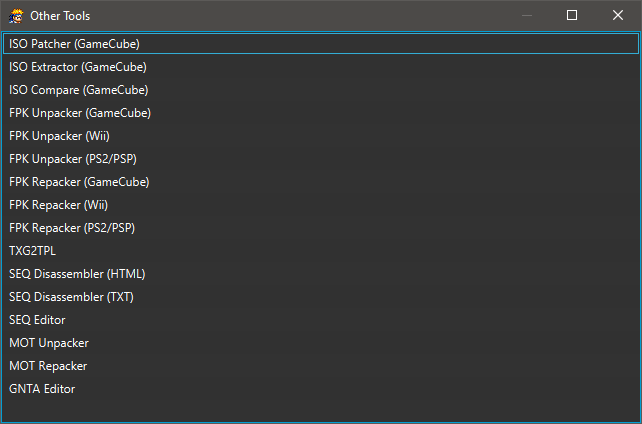
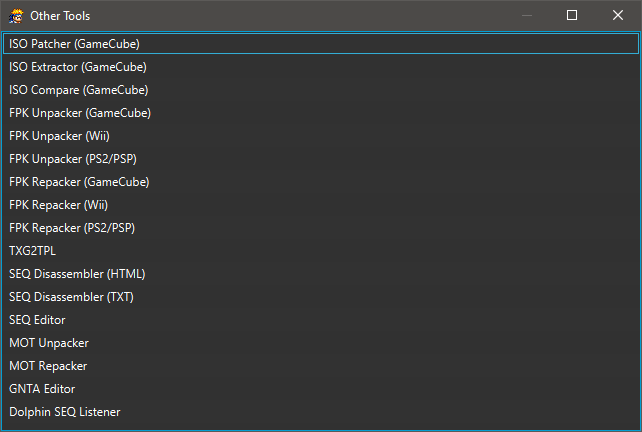
Add SEQ listener to workspace menu

Changed region(s): [[0.0, 0.3066, 0.2492, 0.9811], [0.0, 0.0307, 0.9969, 0.2759]]

diff --git a/src/main/java/com/github/nicholasmoser/tools/DolphinSeqListenerTool.java b/src/main/java/com/github/nicholasmoser/tools/DolphinSeqListenerTool.java
@@ -3,13 +3,33 @@ package com.github.nicholasmoser.tools;
 import com.github.nicholasmoser.gnt4.seq.DolphinSeqListener;
 import com.github.nicholasmoser.utils.GUIUtils;
 import java.io.IOException;
+import java.nio.file.Path;
 import javafx.fxml.FXMLLoader;
 import javafx.scene.Scene;
 import javafx.stage.Stage;
 
+/**
+ * A tool to view SEQ file execution from Dolphin.
+ */
 public class DolphinSeqListenerTool {
 
+
+  /**
+   * Run the Dolphin SEQ Listener tool.
+   *
+   * @throws IOException If an I/O error occurs.
+   */
   public static void run() throws IOException {
+    run(null);
+  }
+
+  /**
+   * Run the Dolphin SEQ Listener tool with the given GNT4 uncompressed files.
+   *
+   * @param gnt4Files Path to GNT4 uncompressed files or null if unknown.
+   * @throws IOException If an I/O error occurs.
+   */
+  public static void run(Path gnt4Files) throws IOException {
     FXMLLoader loader = new FXMLLoader(
         DolphinSeqListener.class.getResource("dolphin_seq_listener.fxml"));
     Scene scene = new Scene(loader.load());
@@ -17,7 +37,7 @@ public class DolphinSeqListenerTool {
     DolphinSeqListener seqEditor = loader.getController();
     Stage stage = new Stage();
     GUIUtils.setIcons(stage);
-    seqEditor.init(stage, null);
+    seqEditor.init(stage, gnt4Files);
     stage.setScene(scene);
     stage.setTitle("SEQ Dolphin Listener");
     stage.centerOnScreen();

diff --git a/src/main/java/com/github/nicholasmoser/gnt4/MenuController.java b/src/main/java/com/github/nicholasmoser/gnt4/MenuController.java
@@ -32,6 +32,7 @@ import com.github.nicholasmoser.gnt4.trans.TranslationState;
 import com.github.nicholasmoser.gnt4.trans.Translator;
 import com.github.nicholasmoser.graphics.TXG2TPL;
 import com.github.nicholasmoser.graphics.Texture1300;
+import com.github.nicholasmoser.tools.DolphinSeqListenerTool;
 import com.github.nicholasmoser.tools.GNTAEditorTool;
 import com.github.nicholasmoser.tools.MOTRepackerTool;
 import com.github.nicholasmoser.tools.MOTUnpackerTool;
@@ -56,6 +57,7 @@ import java.util.logging.Logger;
 import java.util.stream.Collectors;
 import javafx.application.Platform;
 import javafx.concurrent.Task;
+import javafx.event.ActionEvent;
 import javafx.event.EventTarget;
 import javafx.fxml.FXML;
 import javafx.scene.control.Button;
@@ -1131,6 +1133,15 @@ public class MenuController {
     } catch (Exception e) {
       LOGGER.log(Level.SEVERE, "Error Running SEQKage", e);
       Message.error("Error Running SEQKage", e.getMessage());
+    }
+  }
+
+  public void dolphinSEQListener() {
+    try {
+      DolphinSeqListenerTool.run(uncompressedFiles);
+    } catch (Exception e) {
+      LOGGER.log(Level.SEVERE, "Error Running Dolphin SEQ Listener", e);
+      Message.error("Error Running Dolphin SEQ Listener", e.getMessage());
     }
   }
 

diff --git a/src/main/java/com/github/nicholasmoser/gnt4/seq/DolphinSeqListener.java b/src/main/java/com/github/nicholasmoser/gnt4/seq/DolphinSeqListener.java
@@ -199,9 +199,9 @@ public class DolphinSeqListener {
     }
   }
 
-  public void init(Stage stage, Path uncompressedFiles) {
+  public void init(Stage stage, Path gnt4Files) {
     this.stage = stage;
-    this.gnt4Files = uncompressedFiles;
+    this.gnt4Files = gnt4Files;
     this.rightStatus.setText("Message Count: " + messageCount);
     this.bufferSize.setText(Integer.toString(DEFAULT_MESSAGE_BUFFER_SIZE));
     messages.getSelectionModel().setSelectionMode(SelectionMode.MULTIPLE);
